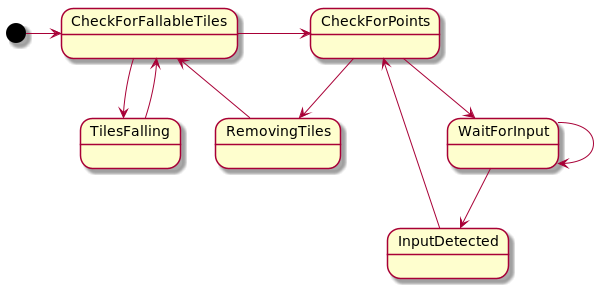
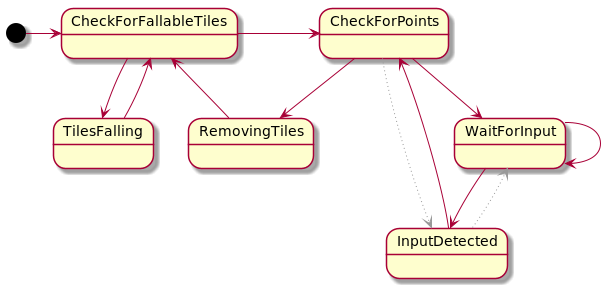
Cleanup (#15)
* improved naming, better puml diagram

* cleanup

* increased grid size for test

#patch

diff --git a/app/src/main/java/me/jameshunt/tilegame/State.kt b/app/src/main/java/me/jameshunt/tilegame/State.kt
@@ -167,15 +167,12 @@ data class State(
             // represents a column of visible and invisible tiles combined,
             // with invisible ones being used to supply new tiles
             check(this.size == config.gridSize * 2)
-
             if (null !in this) return this
 
             val newTopTile = listOf(newRandomTile(config.numTileTypes)) as List<Tile?>
-
             val tilesThatFell = newTopTile + this.subList(0, lowestFallableTile + 1)
 
             val indexOfBottomTile = (config.gridSize * 2) - 1
-
             val tilesThatDidNotFall = (lowestFallableTile + 2..indexOfBottomTile).map { this[it] }
 
             return tilesThatFell + tilesThatDidNotFall
@@ -273,13 +270,13 @@ data class State(
         }
 
         val nextStep = when (isBoardSame) {
-            true -> when (step.previousInput == null) {
-                true -> Step.WaitForInput
-                false -> Step.InputDetected(
+            true -> when (val previousInput = step.previousInput) {
+                null -> Step.WaitForInput
+                else -> Step.InputDetected(
                     touchInput = TouchInput(
-                        touched = step.previousInput.touchInput.switchWith,
-                        switchWith = step.previousInput.touchInput.touched,
-                        moveDirection = step.previousInput.touchInput.moveDirection.opposite()
+                        touched = previousInput.touchInput.switchWith,
+                        switchWith = previousInput.touchInput.touched,
+                        moveDirection = previousInput.touchInput.moveDirection.opposite()
                     ),
                     startTick = tick,
                     switchBackIfNoPoints = false
@@ -306,16 +303,18 @@ fun List<List<Tile?>>.alignTilesByFallDirection(directionToFallFrom: FallFromDir
     // all logic was originally assumed to have tiles fall from the top of the grid
     // this manipulates the board so the same logic can be applied when tiles fall from a different direction
 
-    // applying this twice will give you the original value
+    // applying alignTilesByFallDirection() twice will give you the original value
     // https://en.wikipedia.org/wiki/Involution_(mathematics)
 
-    fun List<List<Tile?>>.reverseGrid(): List<List<Tile?>> =
-        this.map { it.reversed() }.reversed()
+    fun List<List<Tile?>>.flipAlongYEqualsNegativeX(): List<List<Tile?>> = this
+        .transpose2DTileList()
+        .map { it.reversed() }
+        .reversed()
 
     return when (directionToFallFrom) {
         FallFromDirection.Top -> this
         FallFromDirection.Bottom -> this.map { it.reversed() }
         FallFromDirection.Left -> this.transpose2DTileList()
-        FallFromDirection.Right -> this.transpose2DTileList().reverseGrid()
+        FallFromDirection.Right -> this.flipAlongYEqualsNegativeX()
     }
 }

diff --git a/app/src/main/java/me/jameshunt/tilegame/StateMachine.kt b/app/src/main/java/me/jameshunt/tilegame/StateMachine.kt
@@ -19,27 +19,6 @@ class StateMachine(
         return state
     }
 
-    fun resumeState(config: GameView.Config, tiles: List<List<Tile?>>) {
-        synchronized(this) {
-            externalInput.config = config
-            state = state.copy(tiles = tiles).loadConfigChange(config)
-        }
-    }
-
-    private fun getInitialState(): State {
-        val config = externalInput.config
-        val gridSize = config.gridSize
-        val numTileTypes = config.numTileTypes
-        return State(
-            tiles = getInitialBoard(gridSize, numTileTypes),
-            invisibleTiles = getInitialBoard(gridSize, numTileTypes),
-            step = Step.CheckForFallableTiles,
-            config = config,
-            directionToFallFrom = externalInput.directionToFallFrom,
-            lastTouchInput = null
-        )
-    }
-
     /**
      * By putting all of the magic in a background thread we can control
      * the rate at which the state machine progresses
@@ -74,6 +53,27 @@ class StateMachine(
                 onNewStateReadyForRender()
             }
         }
+    }
+
+    fun resumeState(config: GameView.Config, tiles: List<List<Tile?>>) {
+        synchronized(this) {
+            externalInput.config = config
+            state = state.copy(tiles = tiles).loadConfigChange(config)
+        }
+    }
+
+    private fun getInitialState(): State {
+        val config = externalInput.config
+        val gridSize = config.gridSize
+        val numTileTypes = config.numTileTypes
+        return State(
+            tiles = getInitialBoard(gridSize, numTileTypes),
+            invisibleTiles = getInitialBoard(gridSize, numTileTypes),
+            step = Step.CheckForFallableTiles,
+            config = config,
+            directionToFallFrom = externalInput.directionToFallFrom,
+            lastTouchInput = null
+        )
     }
 
     private fun State.loadInputChanges(externalInput: ExternalInput): State {

diff --git a/app/src/main/java/me/jameshunt/tilegame/GameView.kt b/app/src/main/java/me/jameshunt/tilegame/GameView.kt
@@ -81,8 +81,8 @@ class GameView @JvmOverloads constructor(
             .flatten()
             .map { tile -> tile?.type?.ordinal ?: Int.MIN_VALUE }
 
+        check(tilesFlattened.size / config.gridSize == config.gridSize)
         return Bundle().apply {
-            check(tilesFlattened.size % config.gridSize == 0)
             putParcelable("super_state", super.onSaveInstanceState())
             putParcelable("config", config)
             putIntegerArrayList("tiles", ArrayList(tilesFlattened))
@@ -93,7 +93,7 @@ class GameView @JvmOverloads constructor(
         (state as? Bundle)?.getParcelable<Config>("config")?.let { config ->
             val resumedTiles = state
                 .getIntegerArrayList("tiles")!! // config exists, tiles should too
-                .also { check(it.size % config.gridSize == 0) }
+                .also { check(it.size / config.gridSize == config.gridSize) }
                 .map { typeEnumIndex ->
                     when (typeEnumIndex == Int.MIN_VALUE) {
                         true -> null

diff --git a/app/src/test/java/me/jameshunt/tilegame/FixTileByGravityTest.kt b/app/src/test/java/me/jameshunt/tilegame/FixTileByGravityTest.kt
@@ -43,7 +43,7 @@ class FixTileByGravityTest {
 
     @Test
     fun `once should not be equal`() {
-        val tiles = getInitialBoard(3, 6)
+        val tiles = getInitialBoard(50, 6)
 
         FallFromDirection.values()
             .filter { it != FallFromDirection.Top } // doesn't change grid at all

diff --git a/README.md b/README.md
@@ -76,17 +76,19 @@ fun List<List<Tile?>>.alignTilesByFallDirection(directionToFallFrom: FallFromDir
     // all logic was originally assumed to have tiles fall from the top of the grid
     // this manipulates the board so the same logic can be applied when tiles fall from a different direction
 
-    // applying this twice will give you the original value
+    // applying alignTilesByFallDirection() twice will give you the original value
     // https://en.wikipedia.org/wiki/Involution_(mathematics)
 
-    fun List<List<Tile?>>.reverseGrid(): List<List<Tile?>> =
-        this.map { it.reversed() }.reversed()
+    fun List<List<Tile?>>.flipAlongYEqualsNegativeX(): List<List<Tile?>> = this
+        .transpose2DTileList()
+        .map { it.reversed() }
+        .reversed()
 
     return when (directionToFallFrom) {
         FallFromDirection.Top -> this
         FallFromDirection.Bottom -> this.map { it.reversed() }
         FallFromDirection.Left -> this.transpose2DTileList()
-        FallFromDirection.Right -> this.transpose2DTileList().reverseGrid()
+        FallFromDirection.Right -> this.flipAlongYEqualsNegativeX()
     }
 }
 ```
